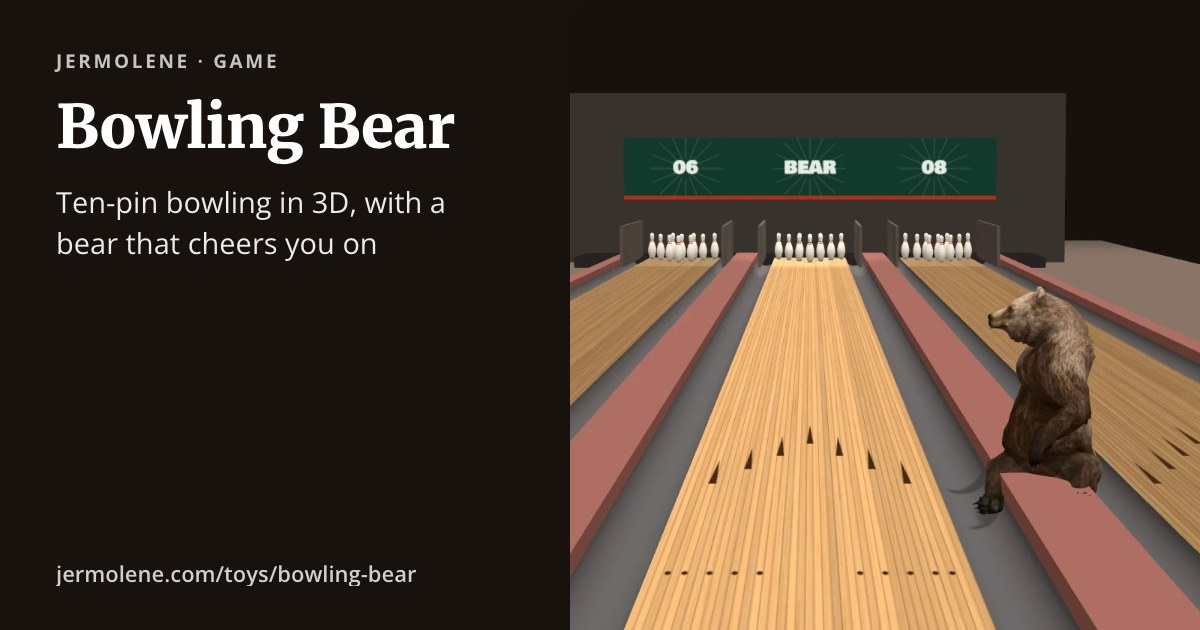
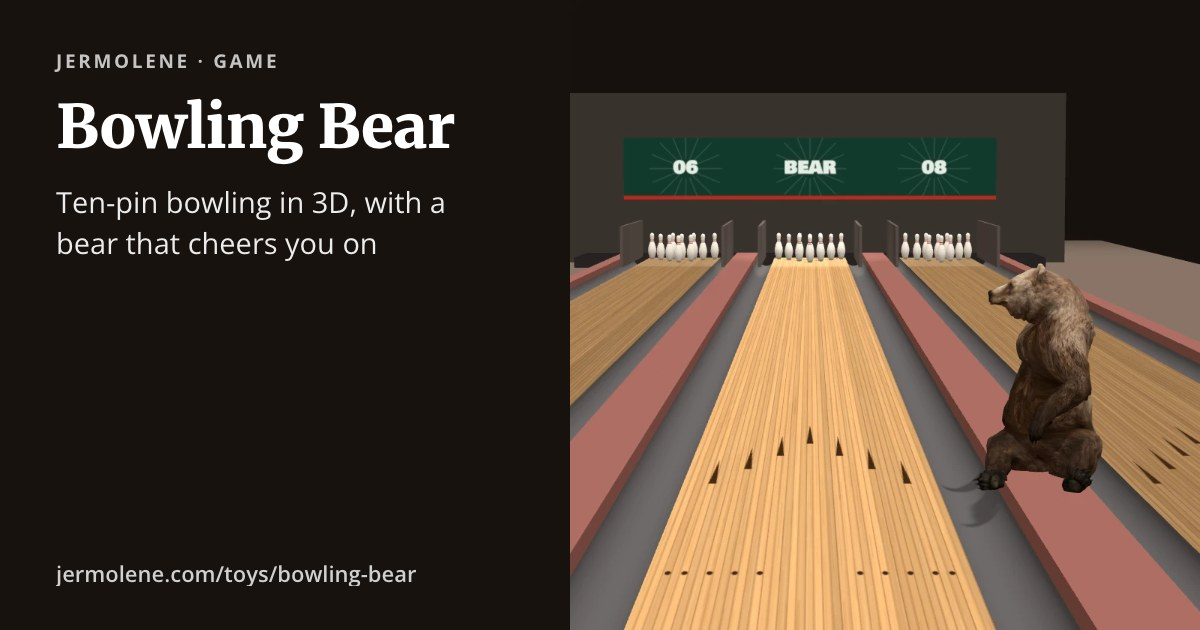
Bowling Bear: keep the alley bear on top of the divider it sits on
The divider between the lane and the next is two cappings whose tops
are at 0.075 and which reach 1.083 from the lane's centre, but the
bear's ground height was 0.075 only within 0.95. At home and running
alongside the ball, at 1.0, it was set 9.5 cm low and sank into the
divider.

Changed region(s): [[0.8017, 0.4222, 0.925, 0.8143]]

diff --git a/static-assets/toys/bowling-bear/index.html b/static-assets/toys/bowling-bear/index.html
@@ -1282,7 +1282,9 @@ function nbFit(P){
   let d=Math.max(P.z-cz,3.0);const ax=Math.min(-NB_X,Math.max(0.85,k*d-0.3));
   d=Math.max(d,(ax+0.3)/k);P.x=-ax;P.z=Math.min(cz+d,PIT_Z-0.3);return P;
 }
-makeBear(1.0,P=>Math.abs(P.x)<0.95?0.075:-0.02).then(b=>{nb=b;nb.fit=nbFit;nb.pos.copy(nbAt(NB_HOME));nb.heading=NB_FACE_HOME;scene.add(nb.root);nbHome();}).catch(e=>console.error('bear load failed',e));
+// the bear walks and sits on the divider between this lane and the next, two cappings side by side whose tops are at
+// 0.075 and which span 0.767-1.083 from the lane's centre; the floor beyond is lower
+makeBear(1.0,P=>Math.abs(P.x)<1.1?0.075:-0.02).then(b=>{nb=b;nb.fit=nbFit;nb.pos.copy(nbAt(NB_HOME));nb.heading=NB_FACE_HOME;scene.add(nb.root);nbHome();}).catch(e=>console.error('bear load failed',e));
 
 // snapshot → meshes (sim x is mirrored so screen-right is +x)
 const qTmp=new THREE.Quaternion(),axTmp=new THREE.Vector3();

diff --git a/toys-src/bowling-bear/CLAUDE.md b/toys-src/bowling-bear/CLAUDE.md
@@ -183,3 +183,7 @@ The alley (host and join, practise alone) had no sound at all; only the table di
 - On/off is `sfx.on`/`sfx.setOn()`, stored under `bowling-bear.sound` (seeded from the table's old `sound` pref). The table menu's Sound button sets it; the alley has no switch of its own.
 - `alleySound()` derives the alley's sounds from the snapshots every device draws, so the screen and all the phones hear every roll whoever bowls: the release when the first snapshot of a roll arrives, the rumble from the ball's speed between snapshots, a clack as a pin goes from standing to falling (louder for the first) and a softer one as it lands. `applyState()` adds the cheer and roar for a strike, the cheer for a spare and the womp for a gutter or a miss, beside the toasts, and a roar at the end of the game; the bear's strike and spare dances get `sfx.groove`.
 - Checked headlessly with two Chromium processes (host and a guest who joins by link), counting the sounds started through a patched `AudioContext`: the watching device hears the roll as well as the bowler. Not yet listened to on real devices.
+
+## The alley bear on the divider (2026-10-30)
+
+The alley bear walks and sits on the divider between the lane and its neighbour: two cappings side by side, tops at y = 0.075, spanning 0.767–1.083 from the lane's centre. Its ground function said 0.075 only within 0.95, so at home (`NB_X` = −1.0) and running alongside it was set 9.5 cm low and sank into the divider; it now says 0.075 within 1.1.
